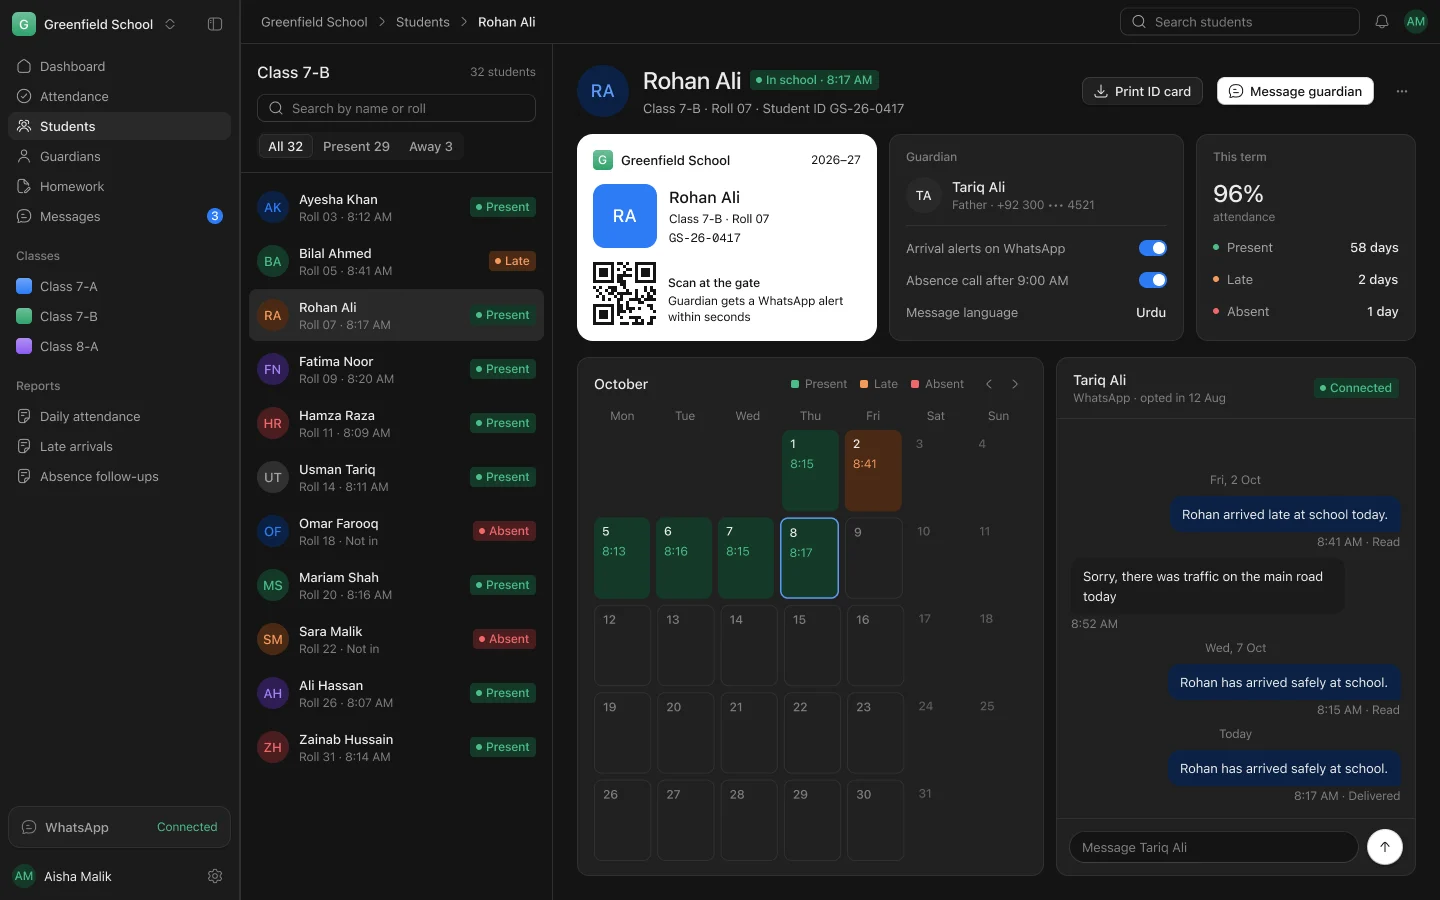
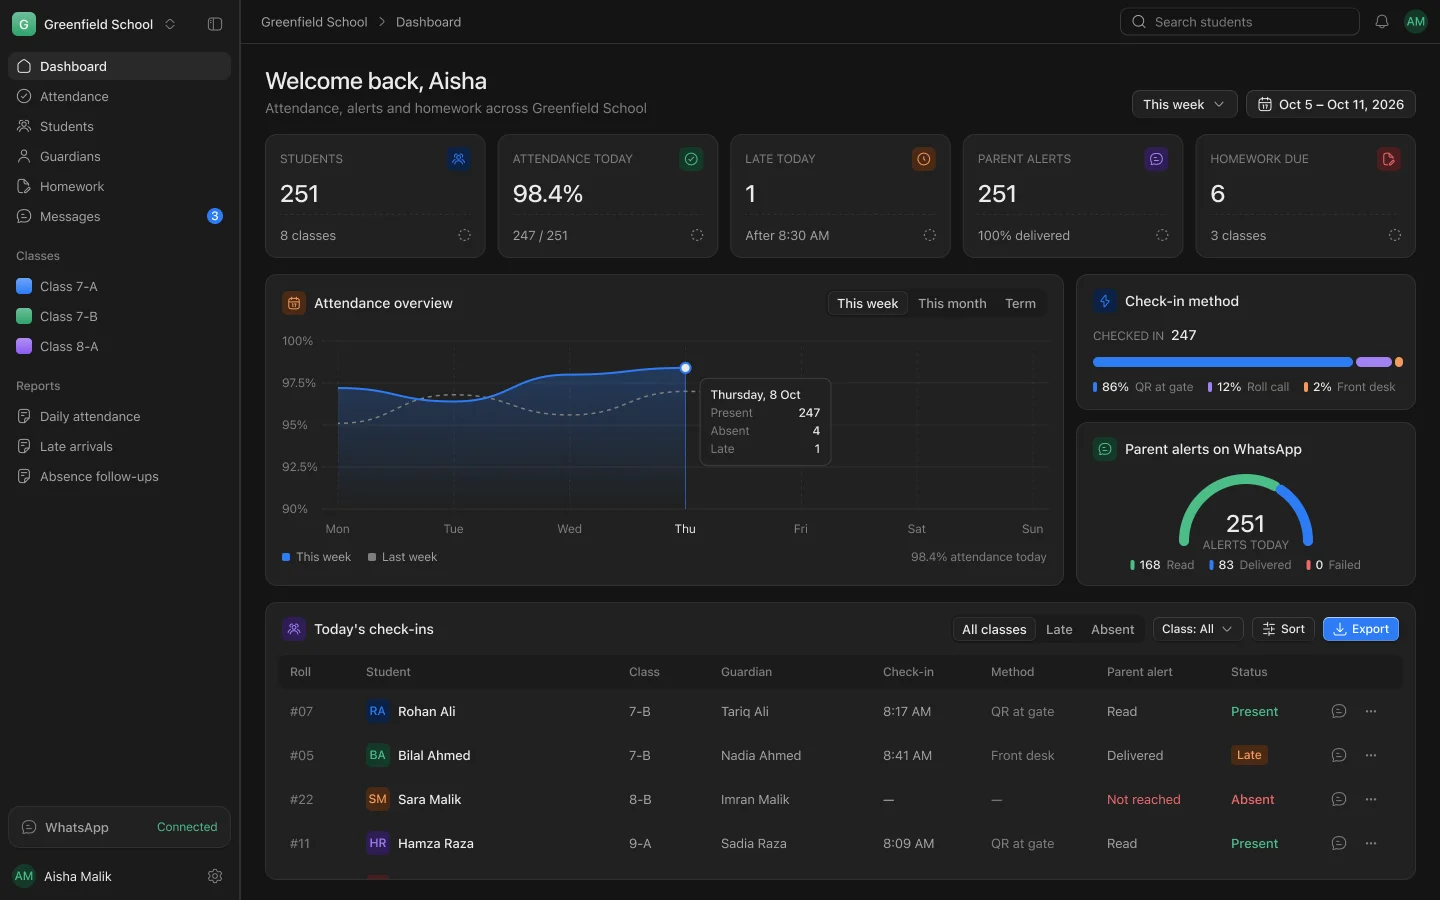
Show the redesigned School OS dashboard and Students screens.
The School OS card now shows the new dashboard, and its dialog adds the
Students table as a second screen. Both were rebuilt in Figma from the
Rabtx design system, following the HR dashboard and CRM table references.

diff --git a/src/data/profile.ts b/src/data/profile.ts
@@ -22,8 +22,10 @@ export type Highlight = {
   label: string;
   year: string;
   isNew?: boolean;
-  /** Product screenshot in public/projects. */
+  /** Product screenshot in public/projects, shown on the card and first in the dialog. */
   image: string;
+  /** Further screens, shown below the first one in the dialog. */
+  screens?: string[];
   about: string[];
   facts: [label: string, value: string][];
   github?: string;
@@ -73,6 +75,7 @@ export const highlights: Highlight[] = [
     label: "School platform",
     year: "2025",
     image: "/projects/school-os.webp",
+    screens: ["/projects/school-os-students.webp"],
     about: [
       "A multi-tenant school platform: a teacher scans a student's QR code at the gate, the parent gets a WhatsApp alert, and the principal's dashboard updates",
       "Students, guardians, staff, attendance, homework and assessments are built; parent alerts are next",

diff --git a/src/components/project-dialog.tsx b/src/components/project-dialog.tsx
@@ -47,6 +47,16 @@ export function ProjectDialog({ ref, project }: Props) {
               </button>
             </form>
           </div>
+          {project.screens?.map((screen) => (
+            // eslint-disable-next-line @next/next/no-img-element -- pre-sized static asset
+            <img
+              key={screen}
+              src={screen}
+              alt={`${project.name} screenshot`}
+              loading="lazy"
+              className="aspect-[16/10] w-full rounded-[14px] md:mt-2 border border-line object-cover object-left-top"
+            />
+          ))}
 
           <div className="flex w-full flex-col gap-5 px-3 pt-1 md:px-4 md:pt-2 md:pb-4">
             <div className="flex items-start gap-2">
